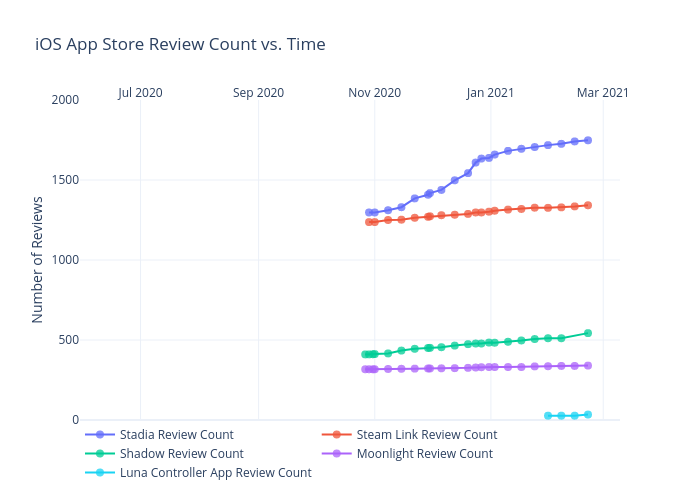
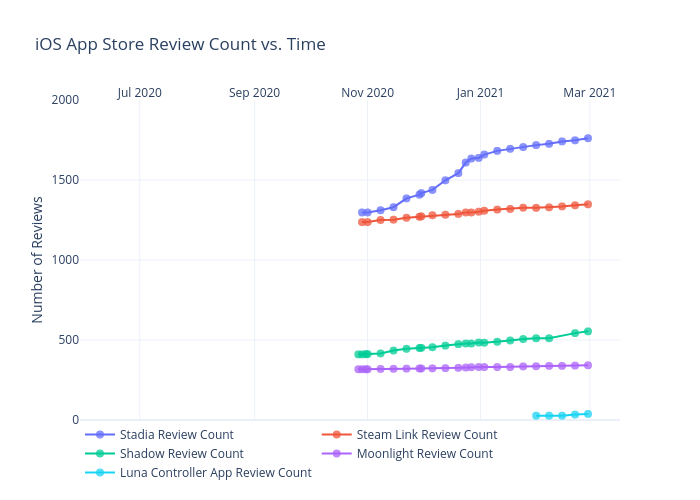
Add files via upload

diff --git a/iosappstore/figure.js b/iosappstore/figure.js
@@ -36,7 +36,8 @@ var figure = {
                 "2021-01-31",
                 "2021-02-07",
                 "2021-02-14",
-                "2021-02-21"
+                "2021-02-21",
+                "2021-02-28"
             ],
             "ysrc": "jdeslip:364:b43812",
             "y": [
@@ -64,7 +65,8 @@ var figure = {
                 "1718",
                 "1726",
                 "1741",
-                "1748"
+                "1748",
+                "1761"
             ],
             "marker": {
                 "size": 8,
@@ -110,7 +112,8 @@ var figure = {
                 "2021-01-31",
                 "2021-02-07",
                 "2021-02-14",
-                "2021-02-21"
+                "2021-02-21",
+                "2021-02-28"
             ],
             "ysrc": "jdeslip:364:d275b0",
             "y": [
@@ -138,7 +141,8 @@ var figure = {
                 "1326",
                 "1329",
                 "1335",
-                "1342"
+                "1342",
+                "1348"
             ],
             "marker": {
                 "size": 8,
@@ -184,7 +188,8 @@ var figure = {
                 "2021-01-31",
                 "2021-02-07",
                 "2021-02-14",
-                "2021-02-21"
+                "2021-02-21",
+                "2021-02-28"
             ],
             "ysrc": "jdeslip:364:791f78",
             "y": [
@@ -212,7 +217,8 @@ var figure = {
                 "511",
                 "511",
                 null,
-                "543"
+                "543",
+                "554"
             ],
             "marker": {
                 "size": 8,
@@ -258,7 +264,8 @@ var figure = {
                 "2021-01-31",
                 "2021-02-07",
                 "2021-02-14",
-                "2021-02-21"
+                "2021-02-21",
+                "2021-02-28"
             ],
             "ysrc": "jdeslip:364:063004",
             "y": [
@@ -286,7 +293,8 @@ var figure = {
                 "336",
                 "338",
                 "338",
-                "340"
+                "340",
+                "342"
             ],
             "marker": {
                 "size": 8,
@@ -332,7 +340,8 @@ var figure = {
                 "2021-01-31",
                 "2021-02-07",
                 "2021-02-14",
-                "2021-02-21"
+                "2021-02-21",
+                "2021-02-28"
             ],
             "ysrc": "jdeslip:364:d976ec",
             "y": [
@@ -360,7 +369,8 @@ var figure = {
                 "27",
                 "27",
                 "27",
-                "34"
+                "34",
+                "38"
             ],
             "marker": {
                 "size": 8,
@@ -379,8 +389,8 @@ var figure = {
             "side": "top",
             "type": "date",
             "range": [
-                "2020-05-31 13:01:23.3427",
-                "2021-03-08 10:58:36.6573"
+                "2020-05-31 02:38:08.8763",
+                "2021-03-15 21:21:51.1237"
             ],
             "title": {
                 "text": ""
